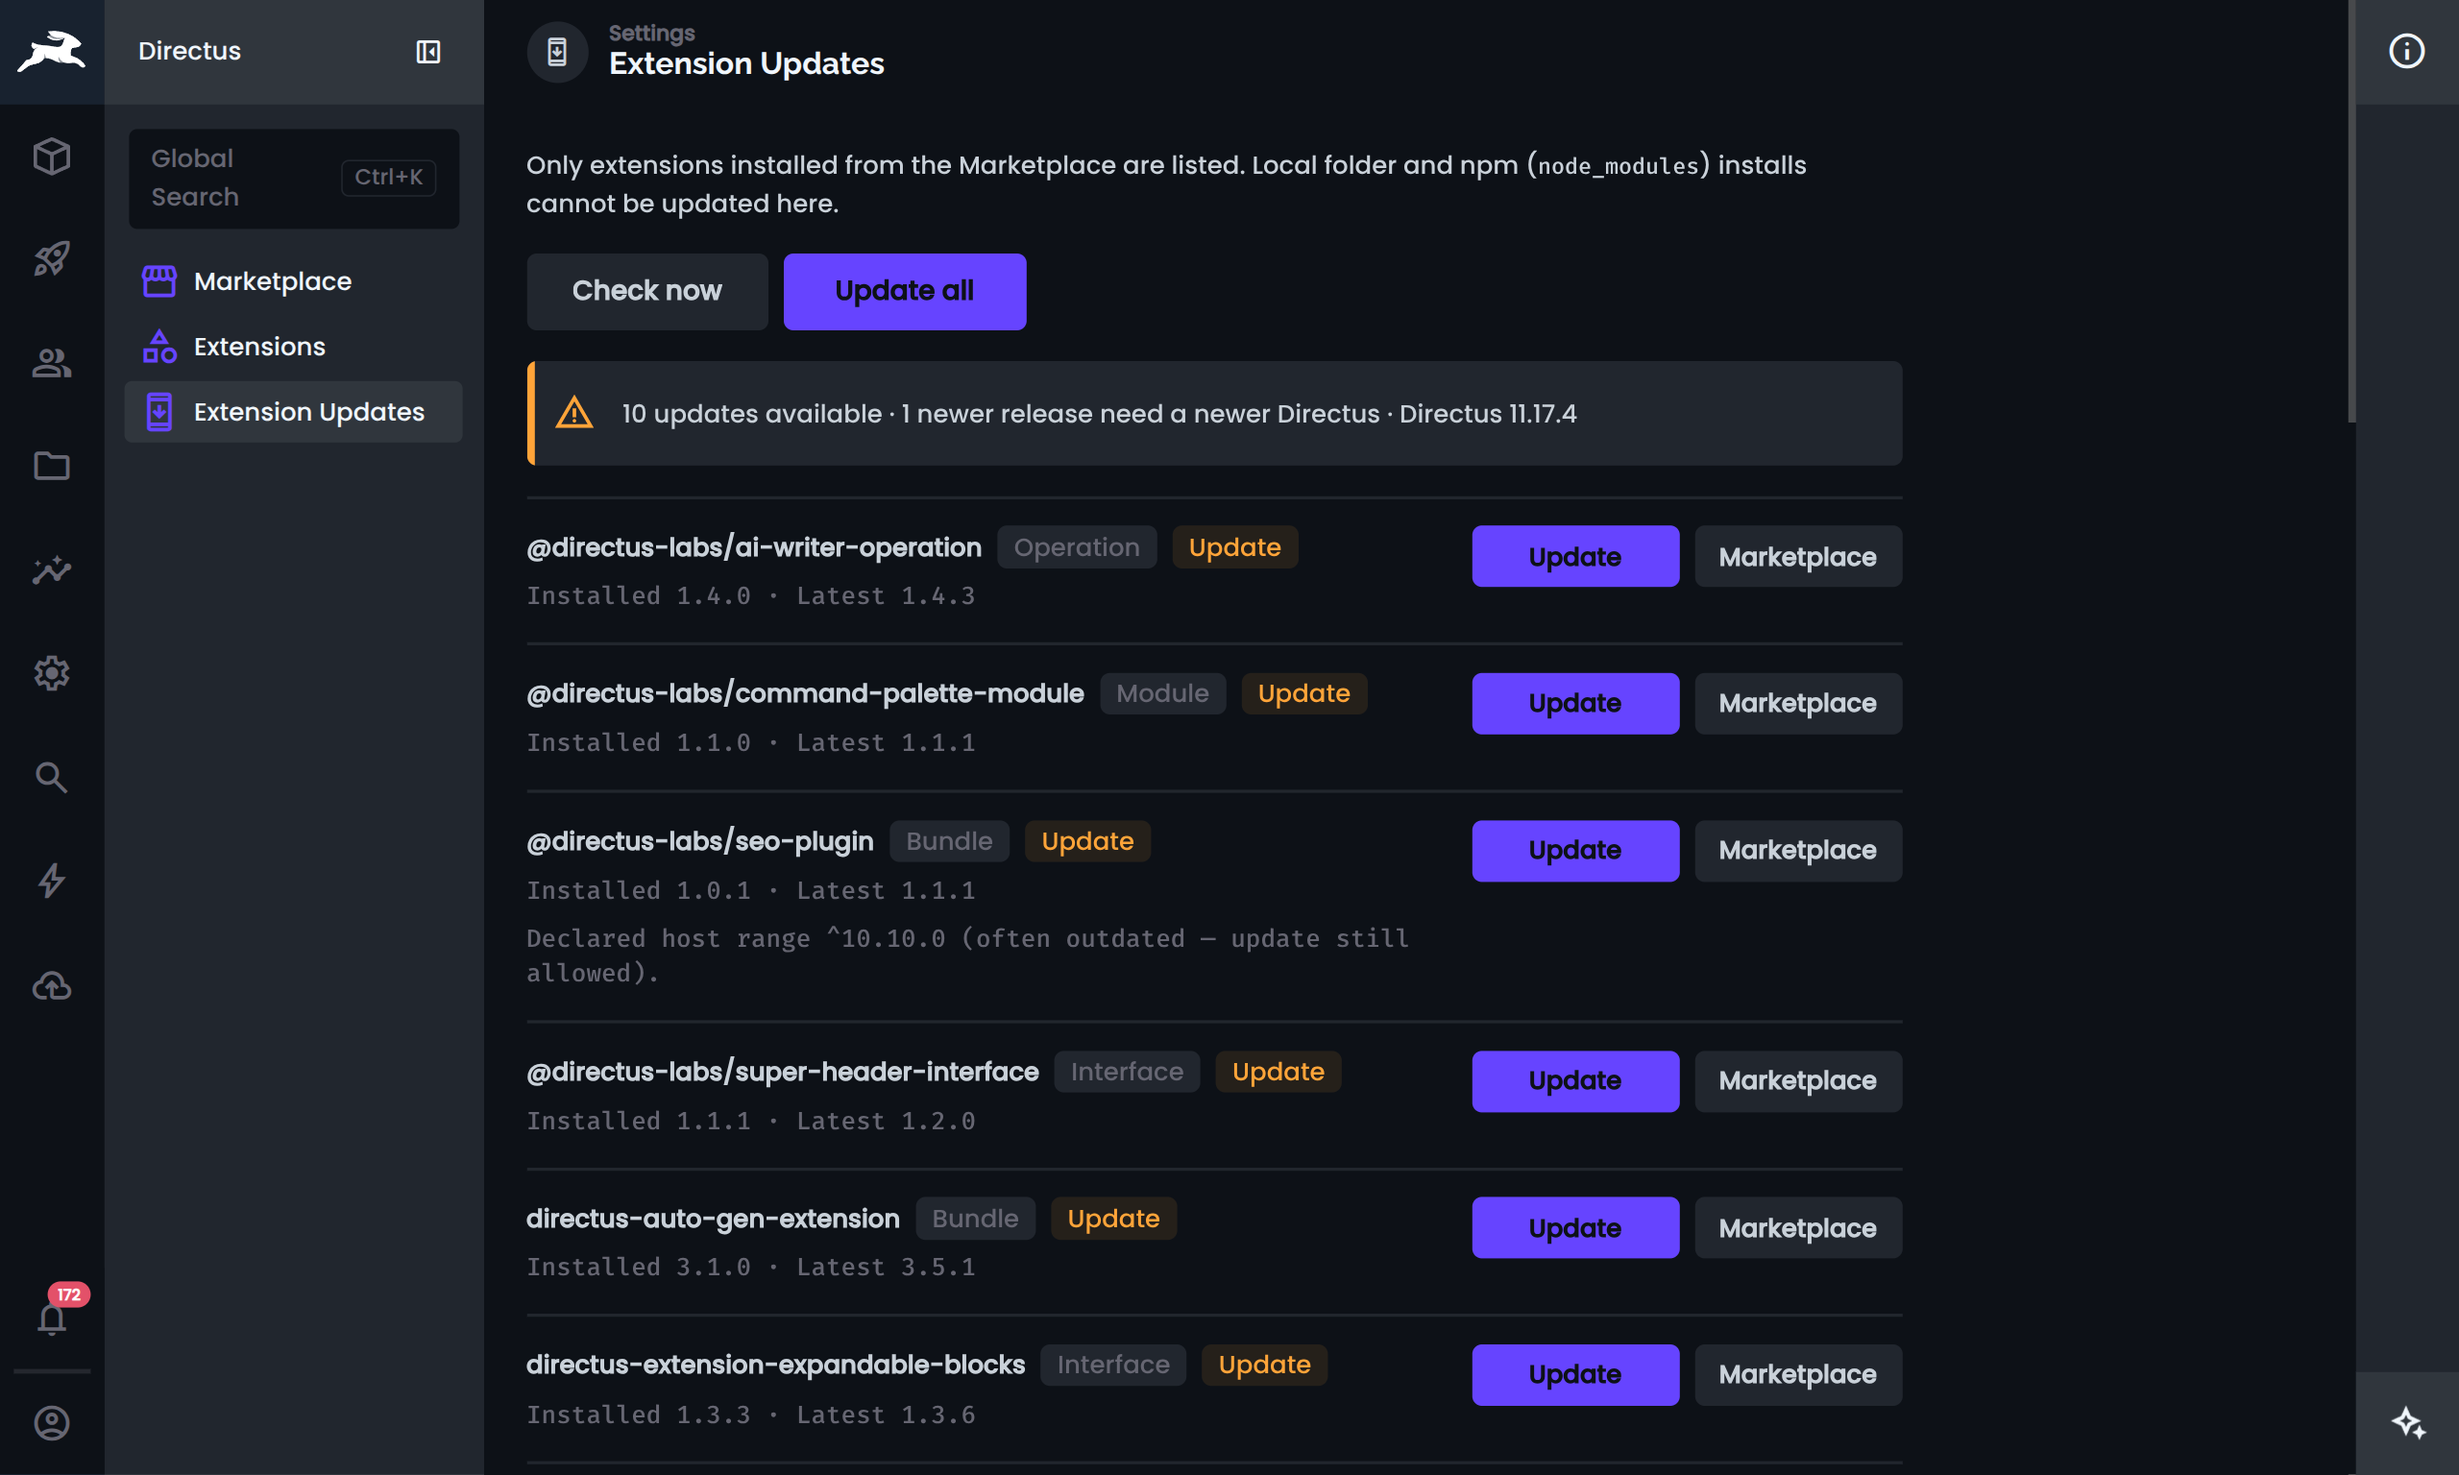
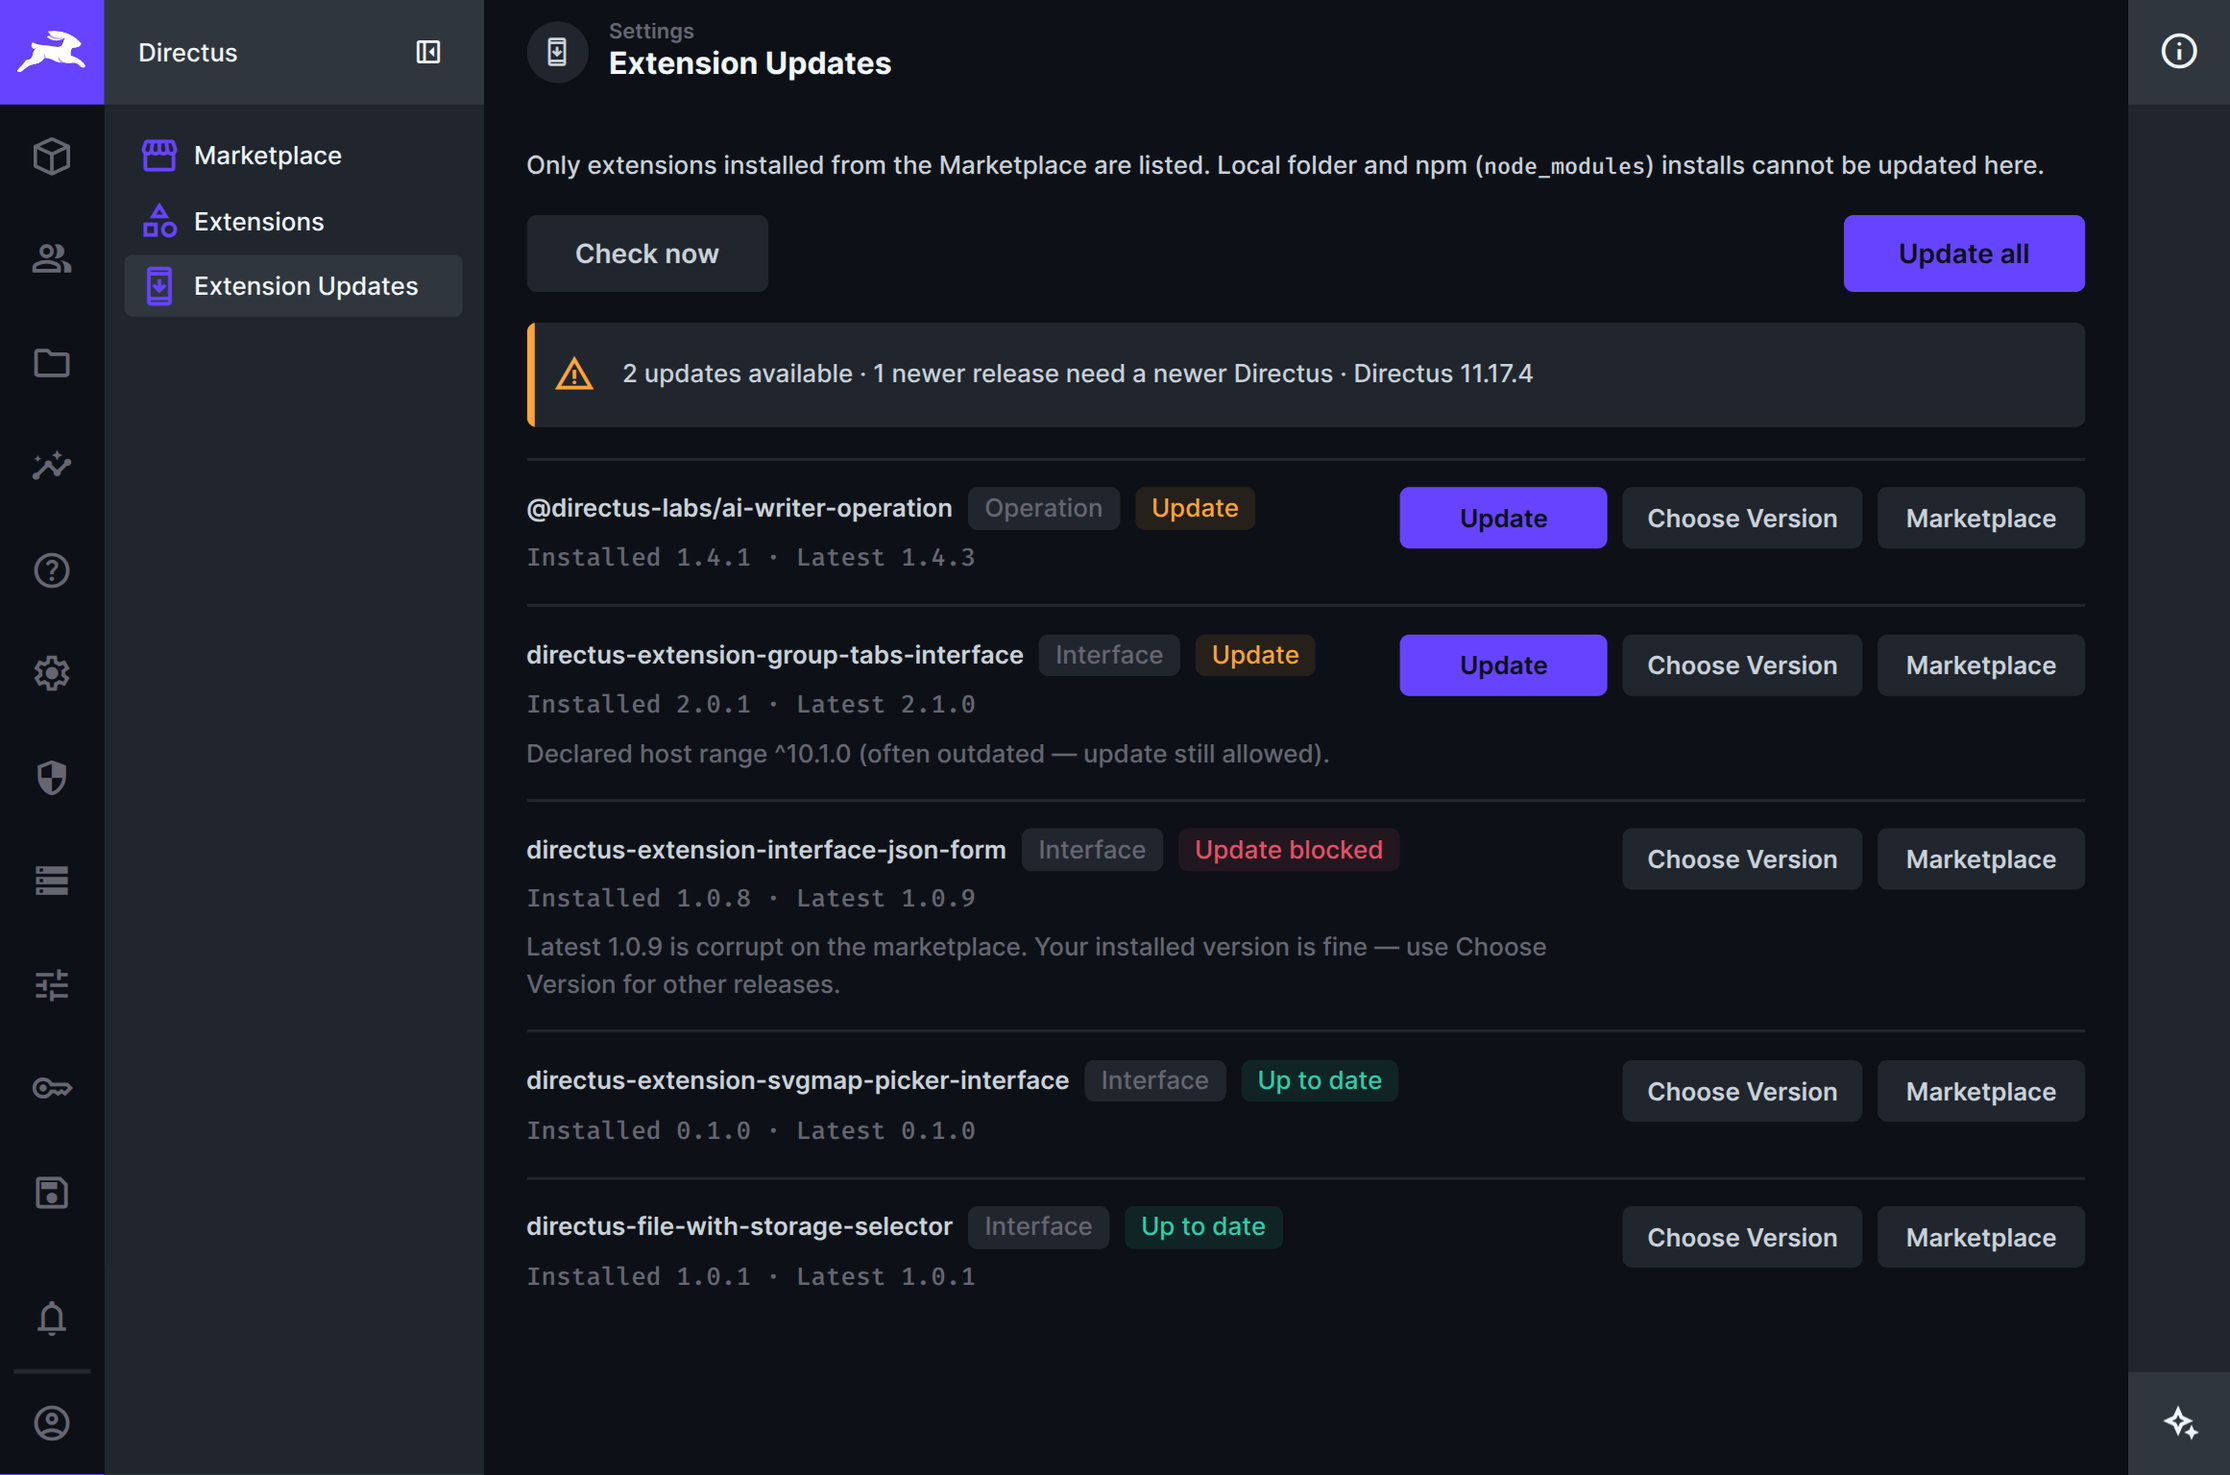
Document Choose Version rollback and add versions screenshot.

diff --git a/README.md b/README.md
@@ -1,6 +1,6 @@
 # Marketplace Updates
 
-Check and apply updates for Directus extensions installed from the Marketplace. Directus can install, reinstall the same version, and uninstall marketplace extensions — it does not compare installed versions with newer registry releases.
+Check and apply updates for Directus extensions installed from the Marketplace. Directus can install, reinstall the same version, and uninstall marketplace extensions — it does not compare installed versions with newer registry releases, and the Studio Marketplace UI does not let you pick an older release.
 
 Open **Settings → Extension Updates** (admins only). A notice also appears on **Settings → Marketplace** and **Settings → Extensions** when updates are waiting.
 
@@ -11,9 +11,17 @@ Open **Settings → Extension Updates** (admins only). A notice also appears on 
 - Lists every extension installed with `source: registry` (marketplace)
 - Compares the installed semver with the latest marketplace version
 - Updates one extension at a time, or **Update all** (checker applied last)
+- **Choose Version** — pick any published marketplace release (newer or older), including rollback when latest is broken
+- Verifies marketplace packages before uninstall (blocks corrupt publishes missing `dist/` entry files)
 - Restores a disabled state after update, and rolls back to the previous version UUID if install fails
 - Skips local folder and npm (`node_modules`) installs — those are not marketplace-updatable
 - Hidden from the left module bar; added next to native **Extensions** / **Marketplace** in Settings
+
+### Choose Version / rollback
+
+Native Marketplace only offers the latest release. **Choose Version** loads every version from the registry, runs an integrity check on each tarball, and lets you install a specific version UUID (upgrade or downgrade). Corrupt packages are shown as blocked so they cannot wipe Studio extensions the way a bad latest release can.
+
+<img alt="Choose Version — pick an older or newer marketplace release" src="https://raw.githubusercontent.com/domdus/directus-extension-marketplace-updates/main/docs/marketplace_versions.png" width="800" />
 
 When updates are available, a summary banner appears on the native Marketplace and Extensions pages:
 
@@ -53,6 +61,7 @@ npm run build
 
 - Latest **npm** and latest **marketplace** can differ. Apply always uses the marketplace version UUID, not npm.
 - Declared marketplace `host_version` ranges are **advisory only**. Publishers often leave them outdated, so a mismatch does not block Update.
+- Packages that fail integrity (for example missing `dist/index.js`) are blocked on Update / Update all and marked **Update blocked** when latest is corrupt but your install is fine.
 - Updating this checker itself unloads its API mid-flight in theory; the handler stays in memory for the request, then you must reload. Apply other extensions first when both need updates.
 
 ## License
